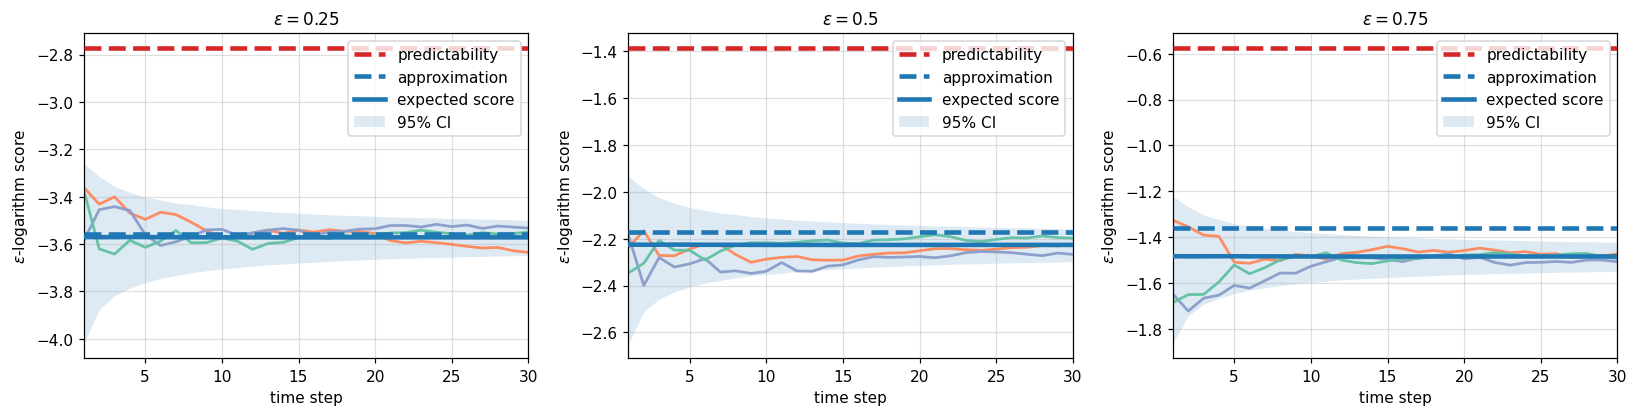
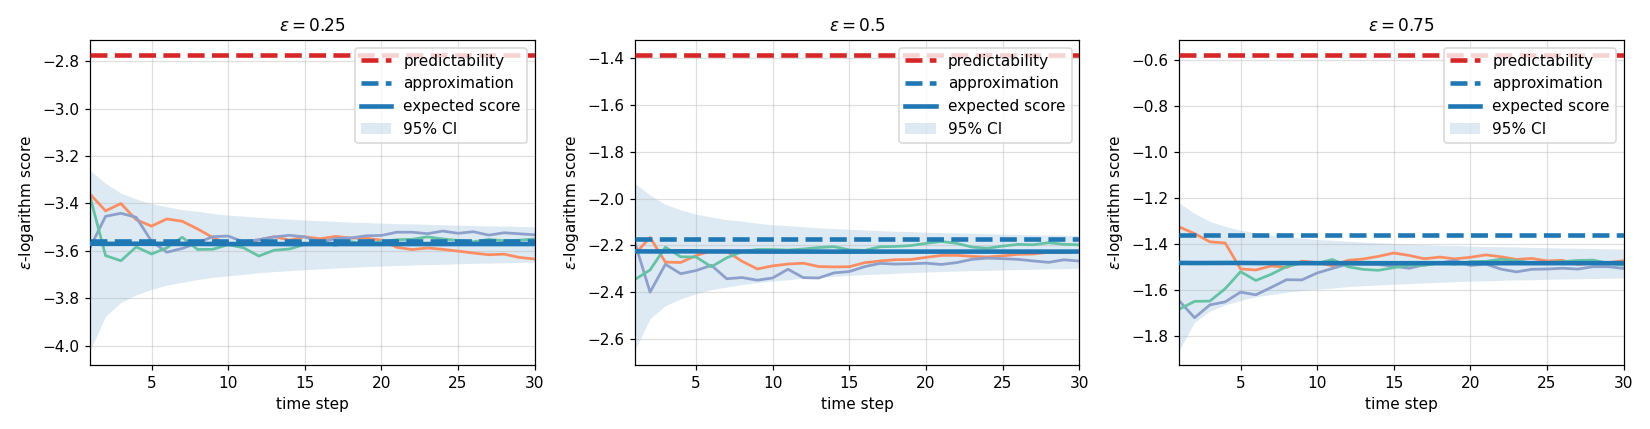
Sync from the development repository

diff --git a/tests/test_figures.py b/tests/test_figures.py
@@ -10,9 +10,13 @@ because it runs the two figure scripts for real.
 a fresh render. Matplotlib's PNG bytes depend on the platform's freetype and font stack, and CI
 runs a Windows job as well as Linux ones, so a byte comparison would be permanently red on one of
 them -- and a gate that is always red is a gate nobody reads. The regeneration test therefore
-checks that the scripts still run and still produce the same *dimensions*, which catches a changed
-layout but not a changed number. A figure whose numbers went stale while its size stayed the same
-is caught by eyes or not at all; the numbers themselves are asserted by the example smoke tests.
+checks that the scripts still run and still produce a figure of the same **aspect ratio** (see
+:data:`ASPECT_TOLERANCE` for why the ratio and not the pixel count). That catches a changed layout,
+but not a changed number. A figure whose numbers went stale while its shape stayed the same is
+caught by eyes or not at all; the numbers themselves are asserted by the example smoke tests.
+
+The cheap assertions stay available without the plotting extra, because the failure they exist for
+-- a committed asset that the exporter silently leaves behind -- has nothing to do with matplotlib.
 """
 
 from __future__ import annotations
@@ -59,6 +63,21 @@ def png_size(path: Path) -> tuple[int, int]:
     return width, height
 
 
+#: Why the dimension check below can be exact.
+#:
+#: It can, but only because the generators were changed to make it possible. Matplotlib's PNG
+#: dimensions are ``figsize * dpi`` **only when nothing crops the canvas** -- and the natural
+#: thing to write is ``bbox_inches='tight'``, which crops to the drawn content. How much gets
+#: cropped depends on font metrics, so a tight-bbox figure has platform-dependent dimensions: it
+#: would come out a few pixels different on a headless Linux runner than on the machine that
+#: generated it, and this test would be red there for no reason at all.
+#:
+#: The generators therefore pass ``bbox_inches=None`` and rely on ``tight_layout()``, which lays
+#: the axes out inside a canvas of exactly ``figsize``. That trades a little whitespace trimming
+#: for a figure whose size is a property of the code rather than of the machine that ran it --
+#: which is what makes the assertion below worth having.
+
+
 @pytest.mark.parametrize('name', sorted(FIGURES))
 def test_each_figure_is_a_real_png_with_sane_dimensions(name):
     """A truncated or empty file would still be *present*, which is what a weaker check sees."""
@@ -86,11 +105,16 @@ def test_each_figure_would_actually_be_exported(name):
 @pytest.mark.slow
 @pytest.mark.parametrize('generator', GENERATORS, ids=lambda value: Path(value).parent.name)
 def test_the_generator_still_produces_figures_of_the_same_shape(generator):
-    """Runs the real generator once and compares the dimensions of everything it wrote.
+    """Runs the real generator once and compares the shape of everything it wrote.
 
     Same shape, not same bytes -- see the module docstring for why. A generator that has stopped
     working, or a figure whose layout changed, both fail here.
     """
+    # The generators draw, so they need the plotting extra -- and this file's *other* tests do
+    # not, which is deliberate: "the committed figure is exportable" is a core-only concern and
+    # has to keep working in the job that installs no extras.
+    pytest.importorskip('matplotlib', reason='the figure generators need ppsds[experiments]')
+
     script = REPO_ROOT / generator
     assert script.is_file(), f'{generator} is missing'
     before = {name: png_size(ASSETS / name) for name in OUTPUTS[generator]}
@@ -104,5 +128,7 @@ def test_the_generator_still_produces_figures_of_the_same_shape(generator):
     for name, was in before.items():
         now = png_size(ASSETS / name)
         assert now == was, (
-            f'{name} came back as {now} but is committed as {was}. If the layout changed on '
-            f'purpose, commit the regenerated file.')
+            f'{name} came back as {now[0]}x{now[1]} but is committed as {was[0]}x{was[1]}. '
+            f'Dimensions are meant to be deterministic -- if this failed on another machine, '
+            f'check that the generator still passes `bbox_inches=None` (see the note at the top '
+            f'of this file). If the layout changed on purpose, commit the regenerated file.')

diff --git a/src/ppsds/visualization/__init__.py b/src/ppsds/visualization/__init__.py
@@ -3,37 +3,23 @@
 Part of the **experiments extra** — ``pip install "ppsds[experiments]"``. Nothing in the core
 imports this subpackage, so a user who only wants predictions never pays for ``matplotlib``.
 
-Everything here takes **paths to the pickles the experiments wrote**, not arrays, with one
-exception: :func:`~ppsds.visualization.predictability.plot_predictability_panel` takes a score
-array directly, which is what lets an example draw the paper's figure without running the batch
-pipeline first.
+⚠ **This module deliberately re-exports nothing**, unlike every other subpackage of ``ppsds``.
+Its submodules do not share a dependency floor — ``bounds``, ``scatter`` and ``graph_format`` are
+numpy-only, while ``covariance``, ``curve`` and ``predictability`` import ``matplotlib`` at module
+level. An eager ``__init__`` that imported all of them would make ``import
+ppsds.visualization.bounds`` fail *without* the extra, which is a property that used to hold and
+that ``tests/test_regressions.py`` relies on.
+
+The rule this is an instance of, worth stating once: **an eager re-export raises the import floor
+of every submodule to the highest one in the package.** That is fine where all the submodules cost
+the same (``ambiguity``, ``dynamics``, ``numerics``, ``predictability``,
+``probabilistic_predictor``, ``scoring_rule``, ``control_policy`` — all numpy/scipy), and wrong
+here. Reach for the full path, or for one of these::
+
+    from ppsds.visualization.bounds import clamp_index
+    from ppsds.visualization.predictability import plot_predictability_panel
 
 Every entry point clamps its indices. An out-of-range trajectory index warns and draws the nearest
 valid one rather than raising: the data has already been computed by then, and one figure should
 not fail a whole experiment.
 """
-
-from .bounds import clamp_horizon, clamp_index, clamp_len, clamp_time_indexes
-from .covariance import (
-    plot_ellipses_compare_predictors,
-    plot_ellipses_compare_predictors_worst_case,
-    plot_ellipses_over_traj,
-)
-from .curve import plot_error_bar, plot_traj
-from .predictability import choose_trajectories, plot_predictability_panel
-from .scatter import plot_target
-
-__all__ = [
-    'clamp_horizon',
-    'clamp_index',
-    'clamp_len',
-    'clamp_time_indexes',
-    'plot_ellipses_compare_predictors',
-    'plot_ellipses_compare_predictors_worst_case',
-    'plot_ellipses_over_traj',
-    'plot_error_bar',
-    'plot_traj',
-    'choose_trajectories',
-    'plot_predictability_panel',
-    'plot_target',
-]

diff --git a/examples/apply_drpp_to_your_own_env/make_figures.py b/examples/apply_drpp_to_your_own_env/make_figures.py
@@ -146,7 +146,7 @@ def figure_prediction(out_dir: Path, env) -> Path:
 
     figure.tight_layout()
     path = out_dir / 'prediction_on_your_system.png'
-    figure.savefig(path, dpi=140, bbox_inches='tight')
+    figure.savefig(path, dpi=140, bbox_inches=None)
     plt.close(figure)
     return path
 
@@ -190,7 +190,7 @@ def figure_when_drpp_pays(out_dir: Path, env) -> Path:
     ax.grid(alpha=0.25)
     figure.tight_layout()
     path = out_dir / 'when_drpp_pays.png'
-    figure.savefig(path, dpi=140, bbox_inches='tight')
+    figure.savefig(path, dpi=140, bbox_inches=None)
     plt.close(figure)
     return path
 

diff --git a/examples/understand_predictability/make_figures.py b/examples/understand_predictability/make_figures.py
@@ -54,7 +54,7 @@ def main() -> int:
                                   approximation=panel['approximation'])
         ax.set_title(rf'$\epsilon = {panel["eps"]}$', fontsize=11)
     figure.tight_layout()
-    figure.savefig(args.out, dpi=110, bbox_inches='tight')
+    figure.savefig(args.out, dpi=110, bbox_inches=None)
     plt.close(figure)
 
     print(f'wrote {args.out}  ({args.out.stat().st_size / 1024:.0f} KiB)')
